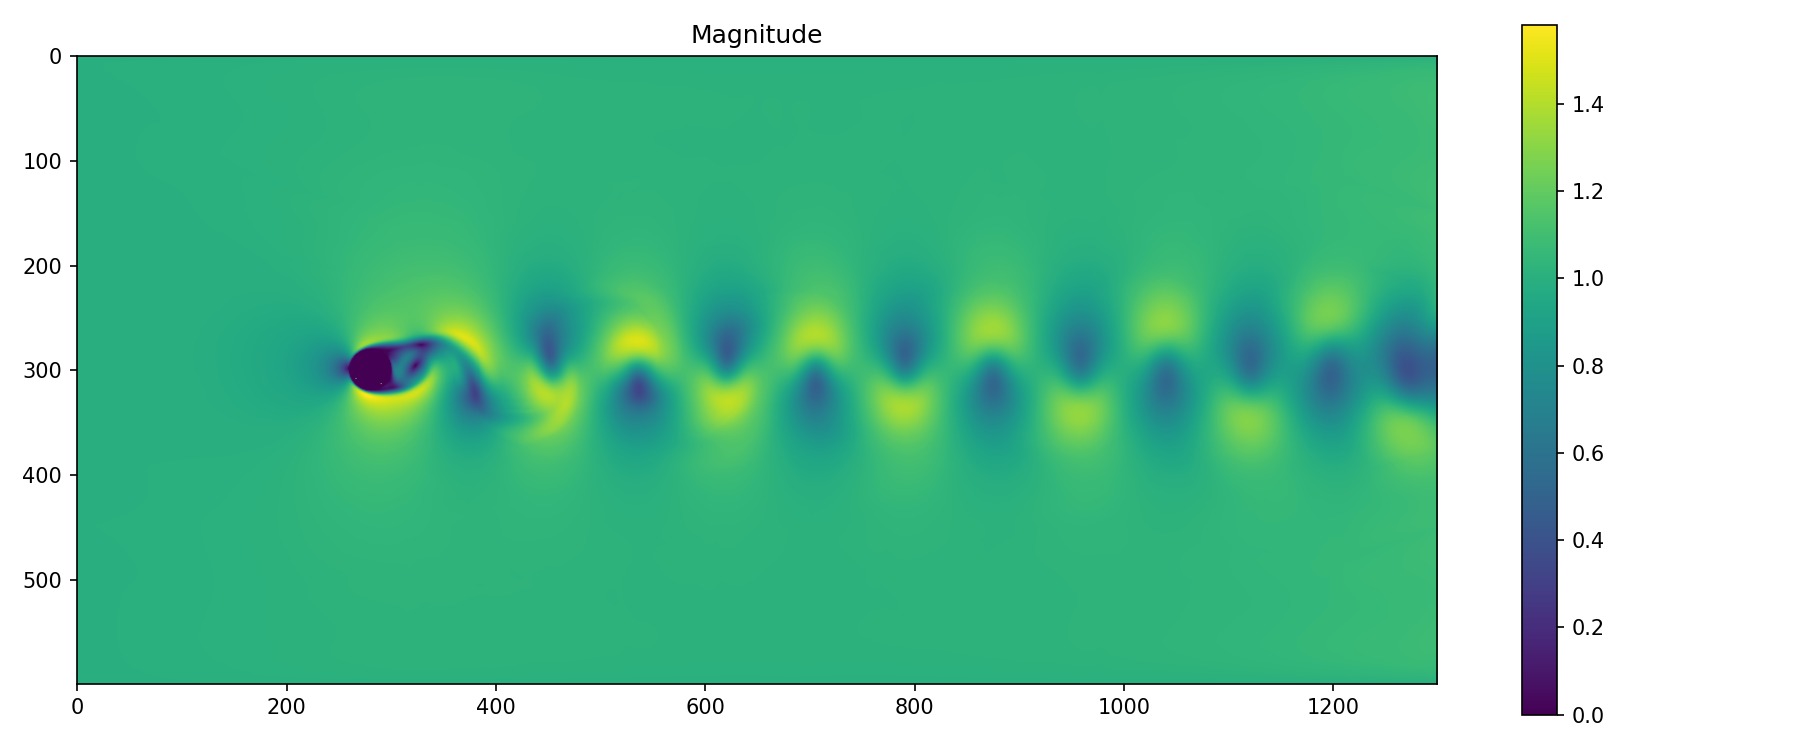
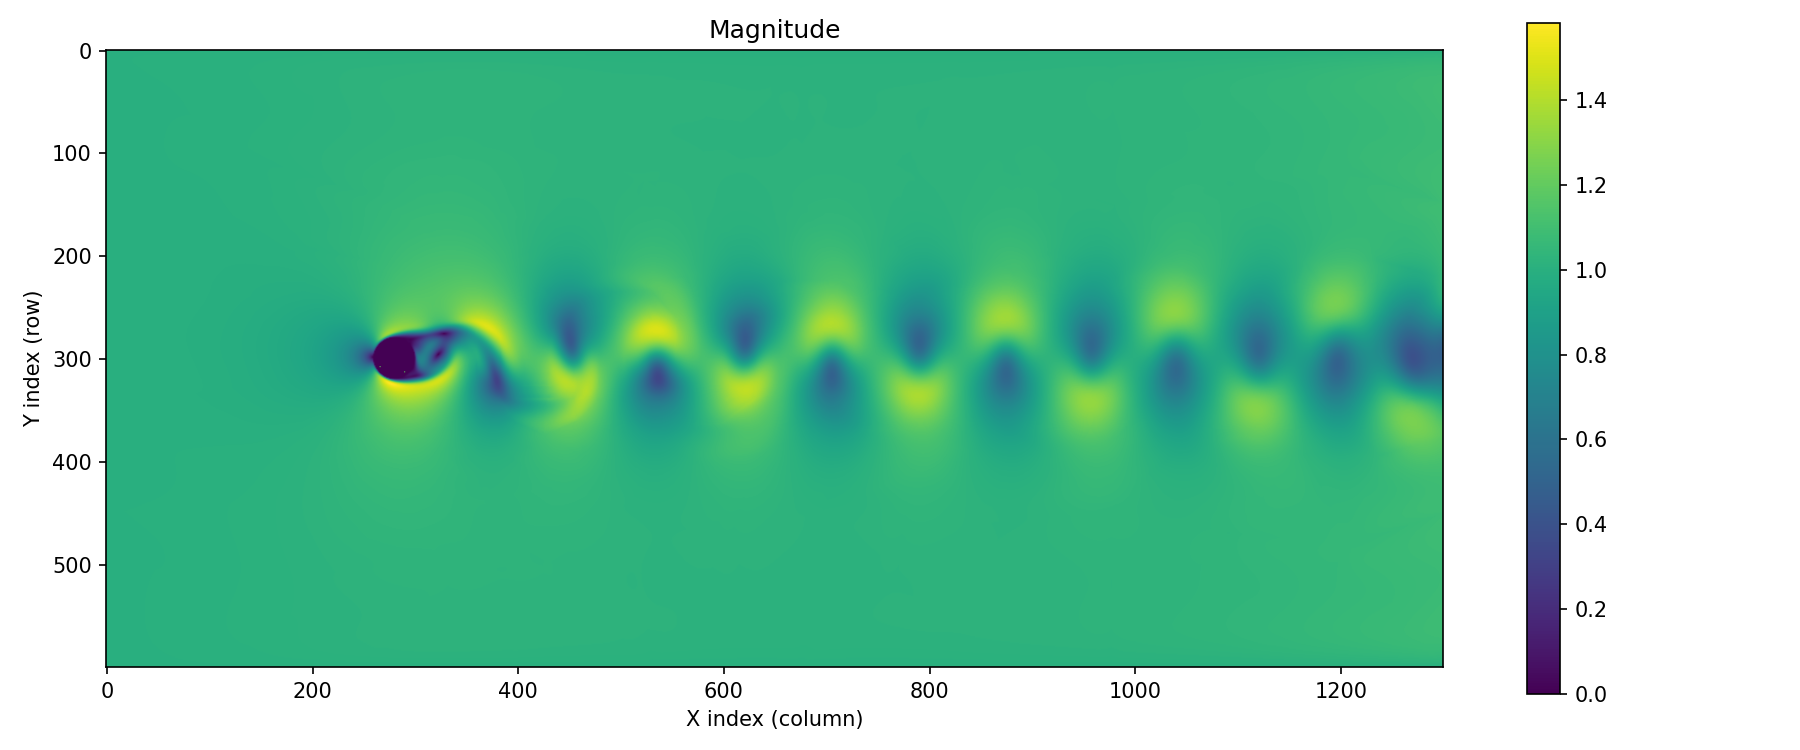
report final draft

diff --git a/hpc_vorticity_project/visualize.py b/hpc_vorticity_project/visualize.py
@@ -9,6 +9,8 @@ def save_image(data, width, height, title, out_png):
     plt.imshow(image)
     plt.colorbar()
     plt.title(title)
+    plt.xlabel("X index (column)")
+    plt.ylabel("Y index (row)")
     plt.tight_layout()
     plt.savefig(out_png, dpi=150)
     plt.close()
